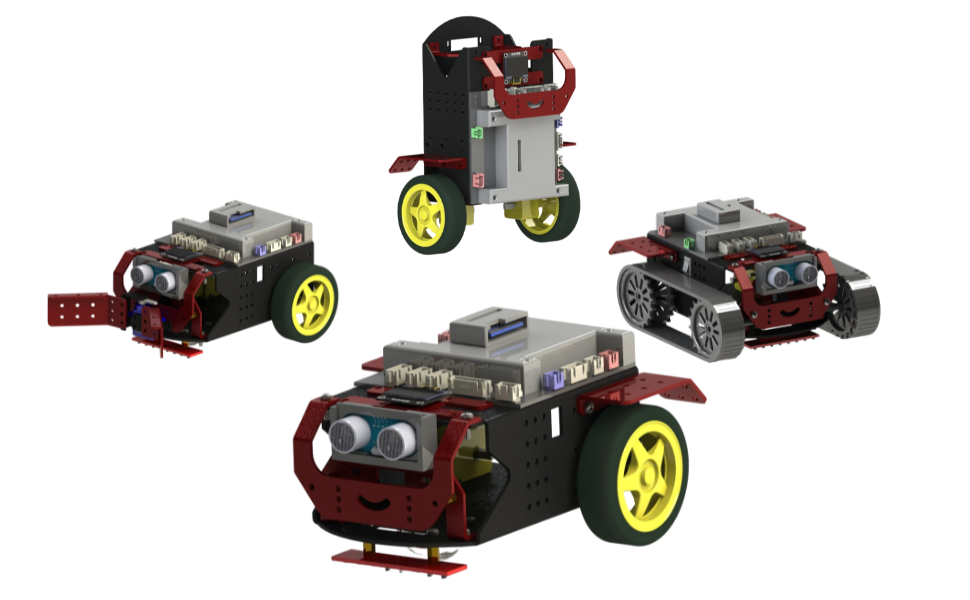
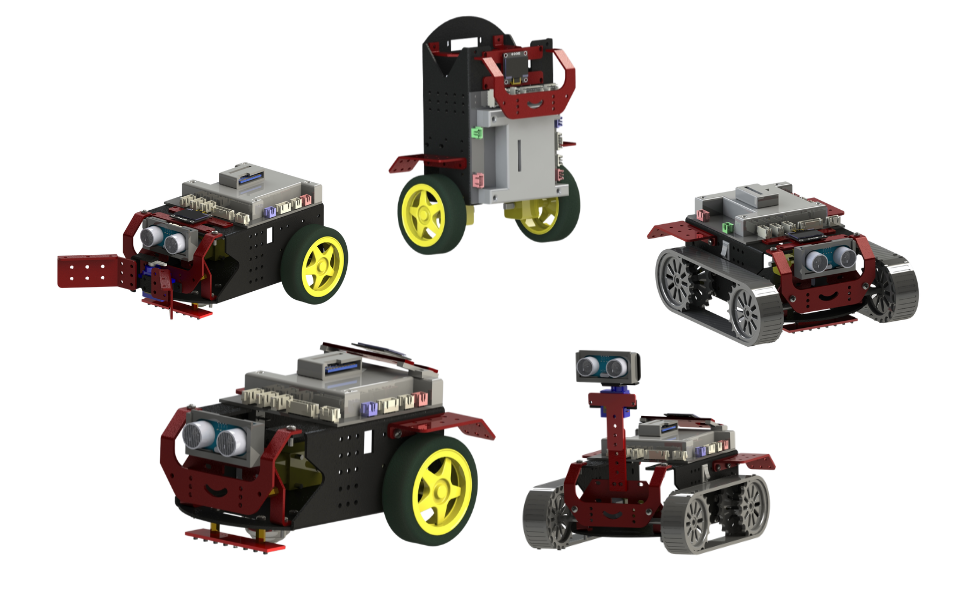
Elementos completos

Changed region(s): [[0.0309, 0.27, 0.9588, 0.96]]

diff --git a/docs/source/documentos/tema_1/0_construccion.rst b/docs/source/documentos/tema_1/0_construccion.rst
@@ -27,9 +27,9 @@ Lista completa de componentes incluidos en el kit:
           :width: 120px
           :align: center
    * - 2
-     - Soporte ultrasónico
+     - Estructura ultrasónico
      - 1
-     - .. image:: ./img/soporte_ultrasonico.jpg
+     - .. image:: ./img/estructura_ultrasonico.jpg
           :width: 120px
           :align: center
    * - 3
@@ -47,25 +47,25 @@ Lista completa de componentes incluidos en el kit:
    * - 5
      - Extensión 1
      - 1
-     - .. image:: ./img/frente.jpg
+     - .. image:: ./img/extension1.jpg
           :width: 120px
           :align: center
    * - 6
      - Extensión 2
      - 1
-     - .. image:: ./img/frente.jpg
+     - .. image:: ./img/extension2.jpg
           :width: 120px
           :align: center
    * - 7
      - Soporte radar
      - 1
-     - .. image:: ./img/frente.jpg
+     - .. image:: ./img/soporte_radar.jpg
           :width: 120px
           :align: center
    * - 8
      - Soporte Pantalla
      - 1
-     - .. image:: ./img/chasis.jpg
+     - .. image:: ./img/soporte_pantalla.jpg
           :width: 120px
           :align: center
    * - 9
@@ -75,15 +75,15 @@ Lista completa de componentes incluidos en el kit:
           :width: 120px
           :align: center
    * - 10
-     - Soporte Servomotor
+     - Estructura Servomotor
      - 1
-     - .. image:: ./img/chasis.jpg
+     - .. image:: ./img/estructura_servo.jpg
           :width: 120px
           :align: center
    * - 11
-     - Acople Gripper
+     - Estructura Gripper
      - 1
-     - .. image:: ./img/chasis.jpg
+     - .. image:: ./img/estructura_gripper.jpg
           :width: 120px
           :align: center
    * - 12
@@ -131,13 +131,13 @@ Lista completa de componentes incluidos en el kit:
    * - 19
      - Cables distintos tamaños
      - 5
-     - .. image:: ./img/llantas.jpg
+     - .. image:: ./img/cables.jpg
           :width: 120px
           :align: center
    * - 20
      - Protectore de circuito
      - 1
-     - .. image:: ./img/chasis.jpg
+     - .. image:: ./img/placa_control.jpg
           :width: 120px
           :align: center
    * - 21 
@@ -147,21 +147,21 @@ Lista completa de componentes incluidos en el kit:
           :width: 120px
           :align: center
    * - 22 
-     - Base de soporte Servomotor
+     - Acople Ultrasónico
      - 1
-     - .. image:: ./img/placa_control.jpg
+     - .. image:: ./img/acople_ultrasónico.jpg
           :width: 120px
           :align: center
    * - 22 
      - Protección IMU
      - 1
-     - .. image:: ./img/placa_control.jpg
+     - .. image:: ./img/caja_imu.jpg
           :width: 120px
           :align: center
    * - 23
      - Tapa Ultrasónico
      - 1
-     - .. image:: ./img/chasis.jpg
+     - .. image:: ./img/tapa_ultra.jpg
           :width: 120px
           :align: center
    * - 24
@@ -173,70 +173,70 @@ Lista completa de componentes incluidos en el kit:
    * - 25
      - Sensor Ultrasónico
      - 1
-     - .. image:: ./img/chasis.jpg
+     - .. image:: ./img/s_ultrasonico.jpg
           :width: 120px
           :align: center
    * - 26
      - Sensor de sonido
      - 1
-     - .. image:: ./img/chasis.jpg
+     - .. image:: ./img/s_sonido.jpg
           :width: 120px
           :align: center
    * - 28
      - Sensor de temperatura
      - 1
-     - .. image:: ./img/chasis.jpg
+     - .. image:: ./img/s_temperatura.jpg
           :width: 120px
           :align: center
    * - 29
      - Sensor de Incercia
      - 1
-     - .. image:: ./img/chasis.jpg
+     - .. image:: ./img/imu.jpg
           :width: 120px
           :align: center
    * - 30
      - Servomotor sg90
      - 1
-     - .. image:: ./img/chasis.jpg
+     - .. image:: ./img/servo.jpg
           :width: 120px
           :align: center
    * - 31
      - Hélice Servomotor
      - 1
-     - .. image:: ./img/chasis.jpg
+     - .. image:: ./img/helice.jpg
           :width: 120px
           :align: center
    * - 32
      - Buzzer
      - 1
-     - .. image:: ./img/chasis.jpg
+     - .. image:: ./img/buzzer.jpg
           :width: 120px
           :align: center
    * - 33
      - Ejes Oruga
      - 2
-     - .. image:: ./img/bateria.jpg
+     - .. image:: ./img/eje_oruga.jpg
           :width: 120px
           :align: center
    * - 34
      - Acoples orugas
-     - 1
-     - .. image:: ./img/bateria.jpg
+     - 2
+     - .. image:: ./img/guardafangos.jpg
           :width: 120px
           :align: center
    * - 35
-     - Ruedas de apoyo
+     - Ruedas de la Oruga
      - 2
-     - .. image:: ./img/bateria.jpg
+     - .. image:: ./img/ruedas_oruga.jpg
           :width: 120px
           :align: center
    * - 36
      - Cadena
-     - 1
-     - .. image:: ./img/bateria.jpg
+     - 2
+     - .. image:: ./img/cadena.jpg
           :width: 120px
           :align: center
-   * - 
+   * - 37
      - Batería
      - 1
      - .. image:: ./img/bateria.jpg
@@ -249,7 +249,7 @@ Herramientas necesarias:
 - Destornillador tipo estrella.   
 
 
-El RENA-BOT puede ser armado de 2 formas diferentes, **1. Velocista**, **2. Equilibrista**, **3. Todoterreno** y **4. Exporador**.
+El RENA-BOT puede ser armado de 4 formas diferentes, **1. Velocista**, **2. Equilibrista**, **3. Todoterreno** y **4. Exporador**.
 
 
 Modo Velocista
@@ -271,9 +271,7 @@ Ejercicios de control de velocidad y giros.
 
 Guía de armado:
 
-.. image:: ./img/rena.gif
-   :width: 700px
-   :align: center
+:download:`Descargar ficha Velocista <../../_static/velocista.pdf>`
 
 Modo Velocista transportador
 ----------------------------
@@ -288,9 +286,10 @@ gripper que permiten transportar objetos.
 
 Guía de armado:
 
-.. image:: ./img/rena.gif
-   :width: 700px
-   :align: center
+.. raw:: html
+
+   <embed src="../../_static/velocista.pdf" type="application/pdf" width="100%" height="600px">
+
 
 
 Modo Todoterreno
@@ -362,4 +361,9 @@ Revisa la sección :ref:`Práctica de movimiento libre <modo-libre>`.
 
 
 .. tip::
-   Si un motor no gira, revise las conexiones en el driver y confirme que la batería tenga carga suficiente.
+	Para una mejor visualización del armado de las diferentes versiones del RENA-BOT revisa la tarjeta de consutrucción de la aplicación movil o escritorio
+
+.. image:: ./img/rena.gif
+   :width: 700px
+   :align: center
+

diff --git a/docs/source/documentos/tema_0/0_intro.rst b/docs/source/documentos/tema_0/0_intro.rst
@@ -1,5 +1,5 @@
-RENA-BOT Estándar
-=================
+RENA-BOT 4 en 1
+===============
 
 El **RENA-BOT** es un robot educativo diseñado con un enfoque **compacto, modular y accesible**, orientado a la enseñanza de **STEM (Ciencia, Tecnología, Ingeniería y Matemáticas)** en niños y jóvenes de **5 a 14 años**.  
 Su desarrollo busca apoyar tanto a la educación formal como a la educación extracurricular, ofreciendo una herramienta práctica para introducirse en el mundo de la robótica.
@@ -9,7 +9,7 @@ Su desarrollo busca apoyar tanto a la educación formal como a la educación ext
    :align: center
    :width: 400px
 
-   RENA-Bot v1
+   RENA-Bot modelos 
 
 **Propósito del RENA-BOT**
 --------------------------